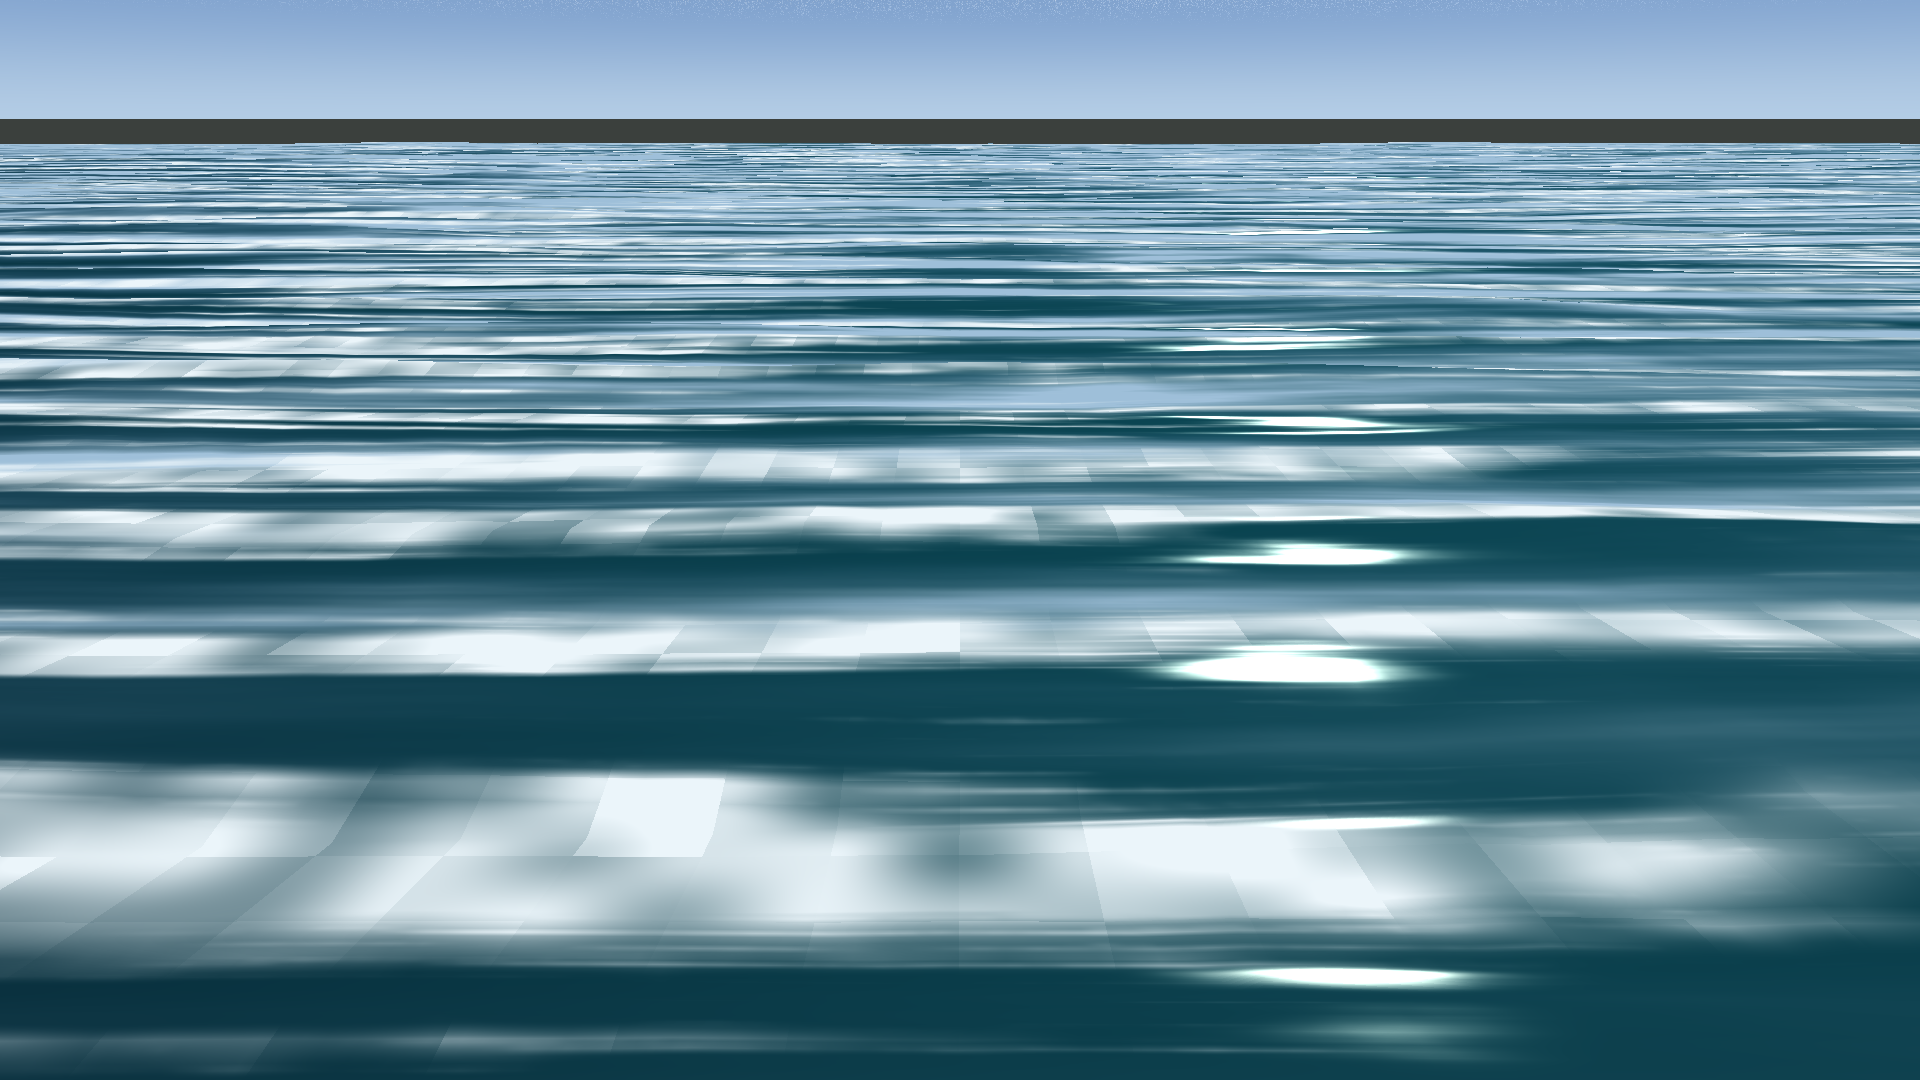
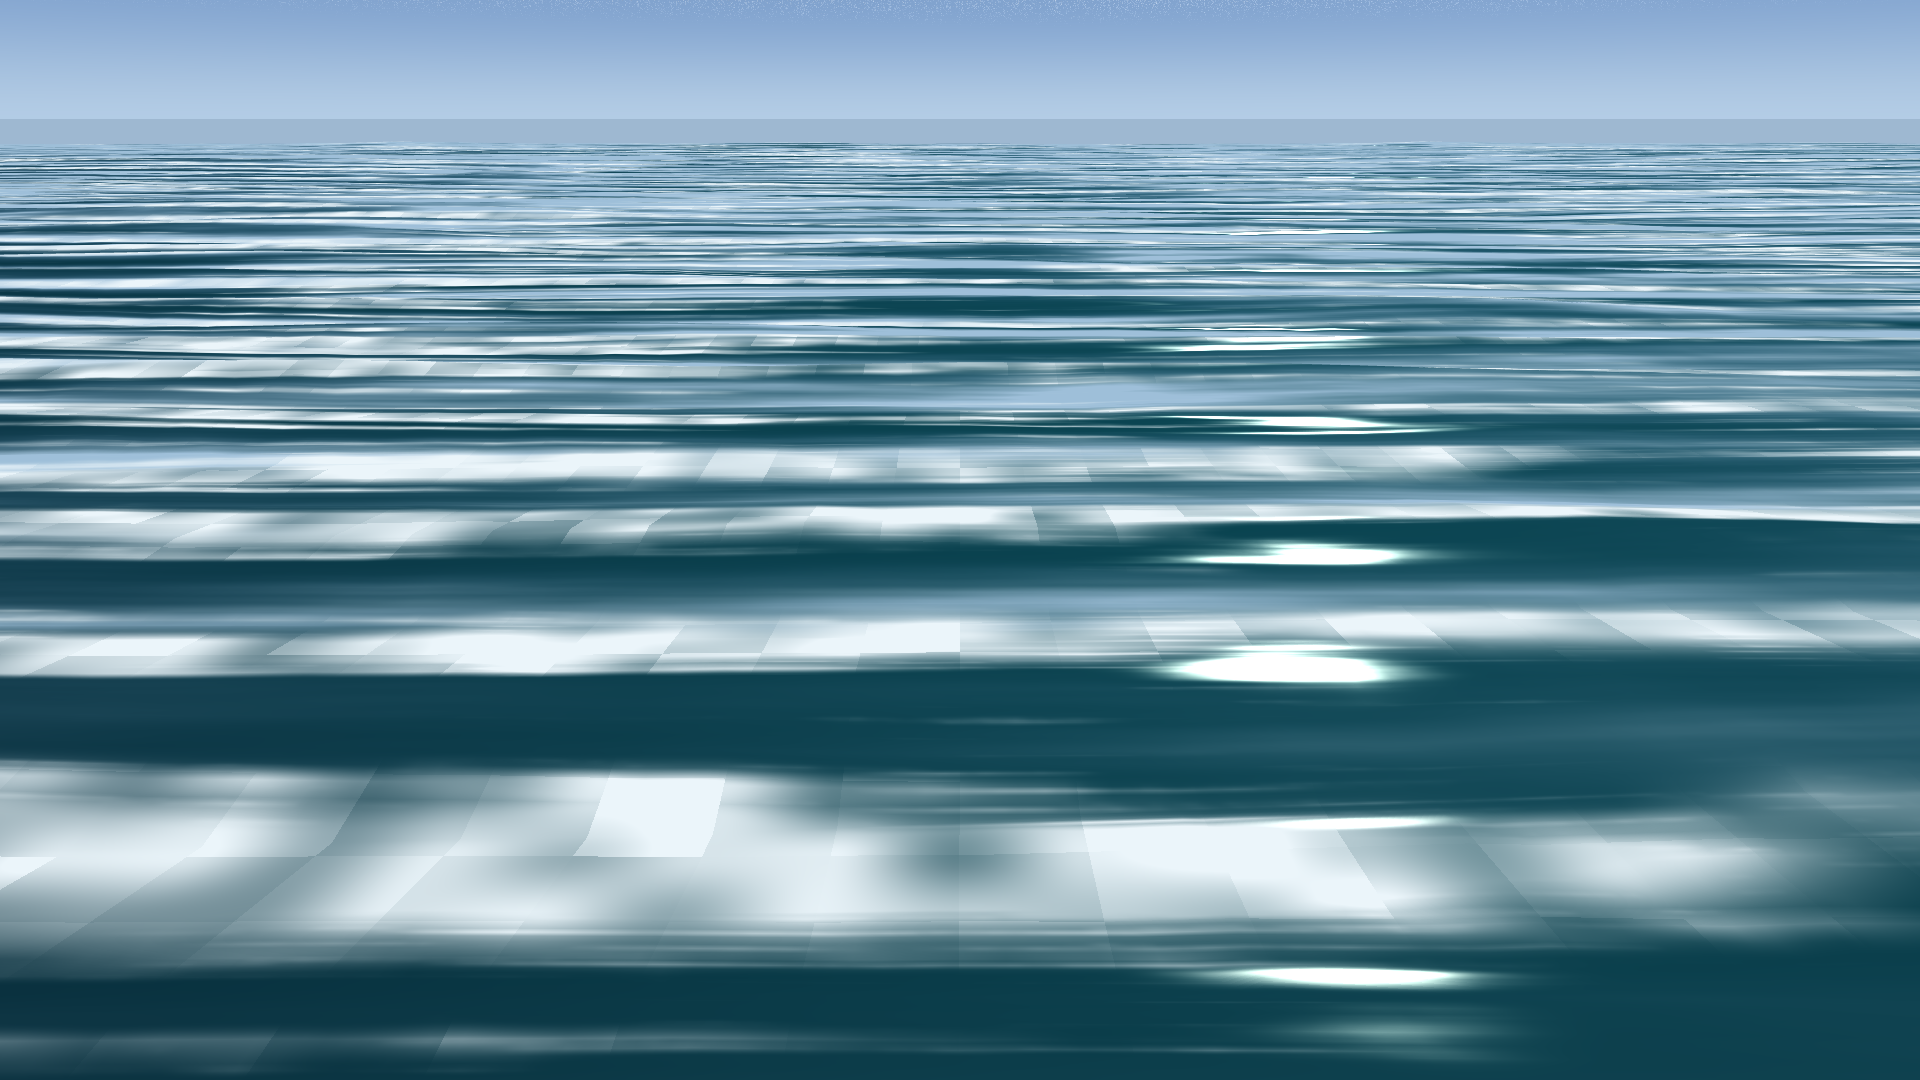
fix(R106): FFT 地平线深灰粗带(同 Islet 那次的 _GroundColor 问题). FFT_Sky 用 Sky_Coast, _GroundColor=(0.23,0.25,0.24) 深灰绿, 相机贴水面平视露出这条带 => 改 (0.62,0.72,0.82); FFT 133.1/61.2/106.3. 同一病已犯三次(Islet/FFT/Pool下半球) => 凡用 Sky_Coast 且看得到地平线以下的场景都要检查该项. 遗留: 水面仍有大块方形亮斑(级联LOD边界)

Changed region(s): [[0.0, 0.0917, 1.0, 0.1833]]

diff --git a/Docs/学习路径与知识库/检测报告/R56_场景画质与采集口径.md b/Docs/学习路径与知识库/检测报告/R56_场景画质与采集口径.md
@@ -734,3 +734,20 @@ Pool：130.4 / 60.1 / 67.2 / 近黑 4.56 / 爆白 3.86。
 中间那个"黑色人影"（`Knight_Head`，材质 `Pool_Knight_Mat`）在画面里仍是纯黑剪影。
 它的贴图 `Pool_Knight_Tex` 均值 (120,129,149) 是亮的，所以**不是贴图问题**，
 更可能是它落在阴影里 / 朝向问题 —— 下一轮单独查。
+
+---
+
+## R106：FFT 地平线的深灰粗带（与 Islet 同一个病）
+
+`FFT_Sky` 用的是 `Sky_Coast`，其中 `_GroundColor = (0.23, 0.25, 0.24)` —— 深灰绿。
+相机几乎贴水面平视 ⇒ 地平线上下交界处露出这条"地面色" ⇒ 一条粗黑带。
+
+改成 `(0.62, 0.72, 0.82)`（接近地平线色）后，海天过渡变成柔和雾霭。
+
+**同一病已经犯过三次**（Islet 52→101、FFT、Pool 的下半球）⇒ **凡是用 `Sky_Coast` 又看得到地平线以下的场景，
+都必须检查 `_GroundColor`**。
+
+FFT：133.1 / 61.2 / 106.3 / 近黑 0.00 / 爆白 0.65。
+
+### 遗留
+FFT 水面上仍有**大块方形亮斑**（级联 LOD 的边界），R46/R47 修掉了竖缝但横向条带还在 —— 结构级，下轮专项。
